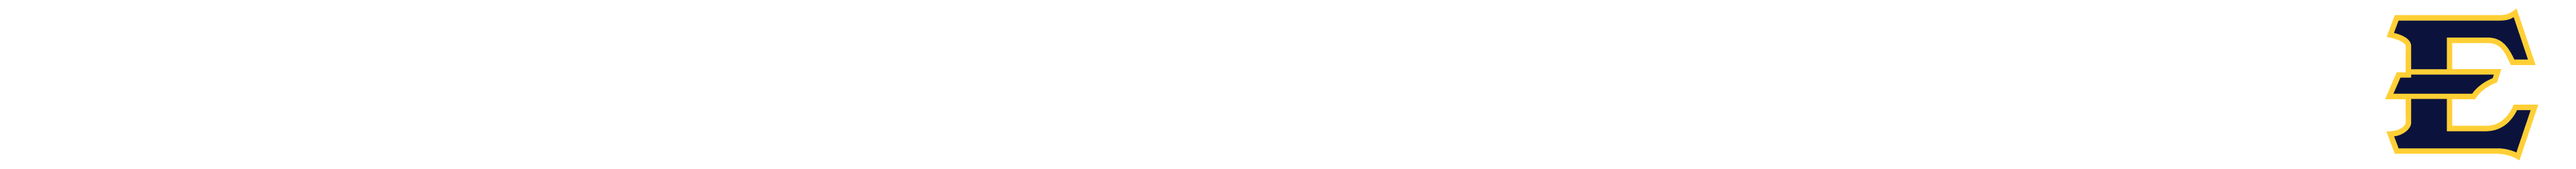
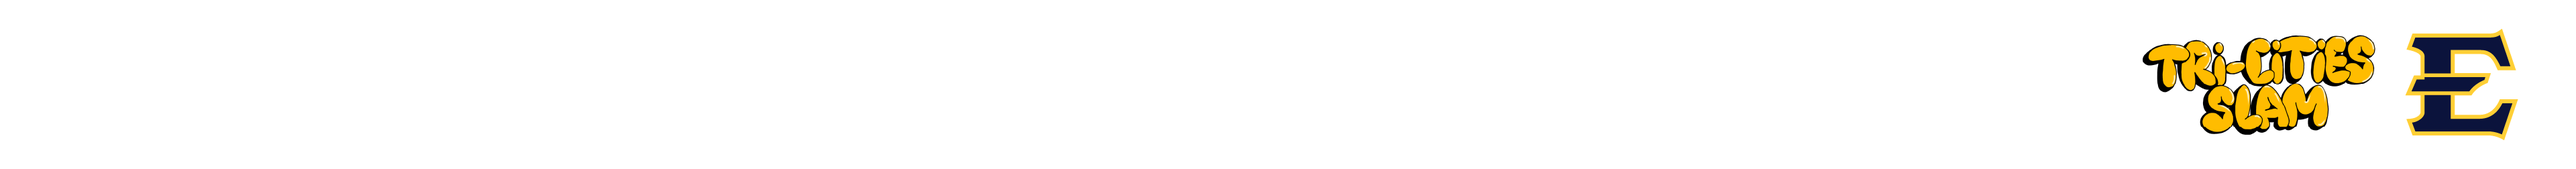
Cave wall day 2

Changed region(s): [[0.8125, 0.0833, 1.0, 0.9444]]

diff --git a/graphics/cavewall.html b/graphics/cavewall.html
@@ -3,6 +3,7 @@
 
 <head>
     <meta charset="UTF-8">
+    <meta name="viewport" content="initial-scale=1, width=3840, height=1586" />
     <link rel="stylesheet" href="./assets/css/cavewall.css">
     <link rel="stylesheet" href="./assets/css/cavewall_ads.css">
 </head>
@@ -17,11 +18,10 @@
                     <img class="img_left" src="./assets/images/etsu.svg">
                     <img class="img_vs" src="./assets/images/vs.svg">
                     <img class="img_right" src="./assets/images/king.svg">
-                </div>
-            -->
+                </div>-->
                 <div id="left_info">
                     <h1>Current Game</h1>
-                    <img class="img_title" src="./assets/images/Valorant.svg">
+                    <!--<img class="img_title" src="./assets/images/Valorant.svg">-->
                     <div class="left_team">
                         <img class="img_left" src="./assets/images/etsu.svg">
                         <span class="score_separator">—</span>
@@ -34,67 +34,107 @@
                         <h1 class="score">0</h1>
                     </div>
                 </div>
+                            
                 <div id="ads">
                     <div id="ads_loop">
                         <ul id="ads_list">
                         </ul>
                     </div>
                 </div>
+
             </div>
             <div class="cavepgm">
+                <h1>Cave Video Wall PGM</h1>
             </div>
             <div class="side right" id="right_container">
-                <h1>Schedule</h1>
                 <div id="schedule">
-                    <div class="schedule_item">
+                    <div class="schedule_item" id="ow_schedule">
                         <div class="schedule_header">
-                            <h2>Overwatch</h2>
                             <h4>8:15 AM</h4>
+                            <h2>Overwatch</h2>
                         </div>
-                        <div class="schedule_body">
-                            <h3>King vs. ETSU</h3>
-                            <h3>ETSU vs. NE State</h3>
-                            <h3>NE State vs. King</h3>
+                        <div class="schedule_body" >
+                            <div class="schedule_matchup">
+                                <img class="schedule_team" src="./assets/images/king.svg">
+                                <img class="schedule_vs" src="./assets/images/vs.svg">
+                                <img class="schedule_team" src="./assets/images/etsu.svg">
+                            </div>
+                            <div class="schedule_matchup">
+                                <img class="schedule_team" src="./assets/images/etsu.svg">
+                                <img class="schedule_vs" src="./assets/images/vs.svg">
+                                <img class="schedule_team" src="./assets/images/nescc.svg">
+                            </div>
+                            <div class="schedule_matchup">
+                                <img class="schedule_team" src="./assets/images/nescc.svg">
+                                <img class="schedule_vs" src="./assets/images/vs.svg">
+                                <img class="schedule_team" src="./assets/images/king.svg">
+                            </div>
                         </div>
                     </div>
-                    <hr>
                     <div class="schedule_item">
                         <div class="schedule_header">
-                            <h2>IRL Content</h2>
-                            <h4>11:15 AM</h4>
-                        </div>
-                        <div class="schedule_body">
-                            <h3>Practice & Lunch</h3>
-                        </div>
-                    </div>
-                    <hr>
-                    <div class="schedule_item">
-                        <div class="schedule_header">
-                            <h2>Rocket League</h2>
                             <h4>12:00 PM</h4>
+                            <h2>Rocket League</h2>
                         </div>
                         <div class="schedule_body">
-                            <h3>NE State vs. King</h3>
-                            <h3>King vs. ETSU</h3>
-                            <h3>ETSU vs. NE State</h3>
+                            <div class="schedule_matchup">
+                                <img class="schedule_team" src="./assets/images/nescc.svg">
+                                <img class="schedule_vs" src="./assets/images/vs.svg">
+                                <img class="schedule_team" src="./assets/images/king.svg">
+                            </div>
+                            <div class="schedule_matchup">
+                                <img class="schedule_team" src="./assets/images/king.svg">
+                                <img class="schedule_vs" src="./assets/images/vs.svg">
+                                <img class="schedule_team" src="./assets/images/etsu.svg">
+                            </div>
+                            <div class="schedule_matchup">
+                                <img class="schedule_team" src="./assets/images/etsu.svg">
+                                <img class="schedule_vs" src="./assets/images/vs.svg">
+                                <img class="schedule_team" src="./assets/images/nescc.svg">
+                            </div>
                         </div>
                     </div>
-                    <hr>
-                    <div class="schedule_item">
+                    <div class="schedule_item active">
                         <div class="schedule_header">
-                            <h2>Valorant</h2>
                             <h4>2:00 PM</h4>
+                            <h2>Valorant</h2>
                         </div>
                         <div class="schedule_body">
-                            <h3>NE State vs. King</h3>
-                            <h3>King vs. ETSU</h3>
-                            <h3>ETSU vs. NE State</h3>
+                            <div class="schedule_matchup">
+                                <img class="schedule_team" src="./assets/images/nescc.svg">
+                                <img class="schedule_vs" src="./assets/images/vs.svg">
+                                <img class="schedule_team" src="./assets/images/king.svg">
+                            </div>
+                            <div class="schedule_matchup">
+                                <img class="schedule_team" src="./assets/images/king.svg">
+                                <img class="schedule_vs" src="./assets/images/vs.svg">
+                                <img class="schedule_team" src="./assets/images/etsu.svg">
+                            </div>
+                            <div class="schedule_matchup">
+                                <img class="schedule_team" src="./assets/images/etsu.svg">
+                                <img class="schedule_vs" src="./assets/images/vs.svg">
+                                <img class="schedule_team" src="./assets/images/nescc.svg">
+                            </div>
                         </div>
                     </div>
                 </div>
             </div>
         </div>
-        <div class="bottom" id="bottom_container"></div>
+        <div class="bottom" id="bottom_container">
+            <div class="left bottom_section">
+                <img class="img_bottom" src="./assets/images/tricitiesslam.png">
+            </div>
+            <div class="center bottom_section">
+                <img class="img_bottom" src="./assets/images/twitter.svg">
+                <img class="img_bottom" src="./assets/images/twitch.svg">
+                <h1>ETSUESPORTS</h1>
+                <img class="img_bottom" src="./assets/images/instagram.svg">
+                <img class="img_bottom" src="./assets/images/youtube.svg">
+            </div>
+            <div class="right bottom_section">
+                <img class="img_bottom" src="./assets/images/etsu.svg">
+            </div>
+        </div>
     </div>
     <script src="https://code.jquery.com/jquery-3.6.4.min.js"></script>
     <script src="./assets/js/common.js"></script>

diff --git a/graphics/assets/css/cavewall.css b/graphics/assets/css/cavewall.css
@@ -62,7 +62,11 @@ body {
 .cavepgm {
     width: 2368px;
     height: 1332px;
-    background-color: #FFC72C;
+    background-color: #333333;
+    display: flex;
+    flex-direction: column;
+    justify-content: center;
+    align-items: center;
 }
 
 .side>h1 {
@@ -171,19 +175,13 @@ body {
     color: #FFFFFF;
     font-size: 40px;
     line-height: 0px;
+    padding-left: 50px;
+    padding-right: 50px;
 }
 
-.schedule_header>.schedule_header {
-    font-size: 35px;
-    line-height: 0px;
-    margin-top: 0px;
-    margin-bottom: 0px;
-    margin-left: 0px;
-    margin-right: 0px;
-    padding-top: 0px;
-    padding-bottom: 0px;
-    padding-left: 0px;
-    padding-right: 0px;
+.schedule_header>h2 {
+    letter-spacing: 5px;
+    margin-top: 35px;
 }
 
 .schedule_header>h4{
@@ -191,11 +189,11 @@ body {
     font-family: IntegralCF-RegularOblique;
     line-height: 0px;
     margin-top: 0px;
-    margin-bottom: 0px;
+    margin-bottom: 10px;
     margin-left: 0px;
     margin-right: 0px;
     padding-top: 0px;
-    padding-bottom: 0px;
+    padding-bottom: 10px;
     padding-left: 0px;
     padding-right: 0px;
 }
@@ -217,21 +215,150 @@ body {
     display: flex;
     justify-content: center;
     align-items: center;
+    position: relative;
+    bottom: 0px;
 }
 
 #bottom_container {
     width: 3840px;
     height: 252px;
-    display: flex;
-    justify-content: center;
-    align-items: center;
-    display: flex;
-    flex-direction: column;
     background-color: #00053E;
-    background-image: url("../images/CAVEWALL_BOTTOM.png");
 }
 
 hr {
     border-top: 1px solid #FFC72C;
     width: 90%;
+}
+
+.cavepgm > h1 {
+    font-family: IntegralCF-ExtraBold;
+    font-size: 300px;
+    color: #FFFFFF;
+    margin-top: 0px;
+    margin-bottom: 0px;
+    margin-left: 0px;
+    margin-right: 0px;
+    padding-top: 0px;
+    padding-bottom: 0px;
+    padding-left: 0px;
+    padding-right: 0px;
+    text-align: center;
+    text-shadow: 0px 0px 5px #000000;
+}
+
+.schedule_item{
+    width: 100%;
+}
+
+.schedule_body {
+    display: flex;
+    flex-direction: column;
+    justify-content: center;
+    align-items: center;
+}
+
+.schedule_matchup {
+    display: flex;
+    flex-direction: row;
+    justify-content: space-evenly;
+    width: 60%;
+}
+
+
+.schedule_team{
+    width: 100px;
+    height: 100px;
+}
+
+.schedule_separator{
+    font-size: 50px;
+    position: relative;
+    top: 2.9vh;
+    padding-left: 5px;
+    padding-right: 5px;
+    line-height: 0px;
+    height: 0px;
+}
+
+
+.active {
+    /*border: 10px solid #FFC72C;*/
+    background-color: #000865;
+    border-radius: 10px;
+    /*box-shadow: 5px 10px #888888;*/
+    box-shadow: 0 0 50px #FFC72C;
+}
+
+.schedule_vs{
+    height: 100px;
+}
+/*  first schedule item  */
+.schedule_item:first-child {
+    margin-top: 10px;
+}
+
+#schedule > div > div.schedule_header > h2 {
+    padding-top: 2px;
+}
+
+#schedule > div > div.schedule_header > h4 {
+    padding-top: 15px;
+}
+
+.bottom {
+    margin: 0;
+    padding: 0;
+    display: flex;
+    justify-content: center;
+    align-items: center;
+    display: flex;
+    flex-direction: row;
+}
+
+.bottom > .left,  .bottom > .right {
+    flex: 736px;
+}
+
+.bottom > .center {
+    flex: 2368px;
+}
+
+.bottom_section{
+    display: flex;
+    flex-direction: row;
+    justify-content: center;
+    align-items: center;
+}
+
+.center > .img_bottom{
+    max-height: 120px;
+    padding-left: 30px;
+    padding-right: 30px;
+}
+
+.center > h1 {
+    position: relative;
+    bottom: 10px;
+    padding-left: 20px;
+    padding-right: 20px;
+}
+
+.img_bottom{
+    max-height: 170px;
+}
+
+.bottom_section > h1 {
+    font-family: IntegralCF-ExtraBold;
+    font-size: 100px;
+    color: #FFFFFF;
+    margin-top: 0px;
+    margin-bottom: 0px;
+    margin-left: 0px;
+    margin-right: 0px;
+    padding-top: 0px;
+    padding-bottom: 0px;
+    padding-left: 0px;
+    padding-right: 0px;
+    text-align: center;
+    text-shadow: 0px 0px 5px #000000;
 }

diff --git a/graphics/assets/js/cavewall_ads.js b/graphics/assets/js/cavewall_ads.js
@@ -1,13 +1,8 @@
-const ads = nodecg.Replicant('assets:ads');
+const ads = nodecg.Replicant('assets:cavewall_ads');
 
 ads.on('change', value => {
 	setupAds(value);
 });
-
-nodecg.readReplicant('assets:ads', value => {
-	setupAds(value);
-});
-
 
 const responsiveSlider = function () {
 	const slider = document.getElementById('ads_loop');

diff --git a/graphics/assets/css/cavewall_ads.css b/graphics/assets/css/cavewall_ads.css
@@ -2,6 +2,8 @@
     width: 500px;
     height: 138.89px;
     overflow: hidden;
+    position: relative;
+    bottom: 0;
 }
 
 img.ads {
